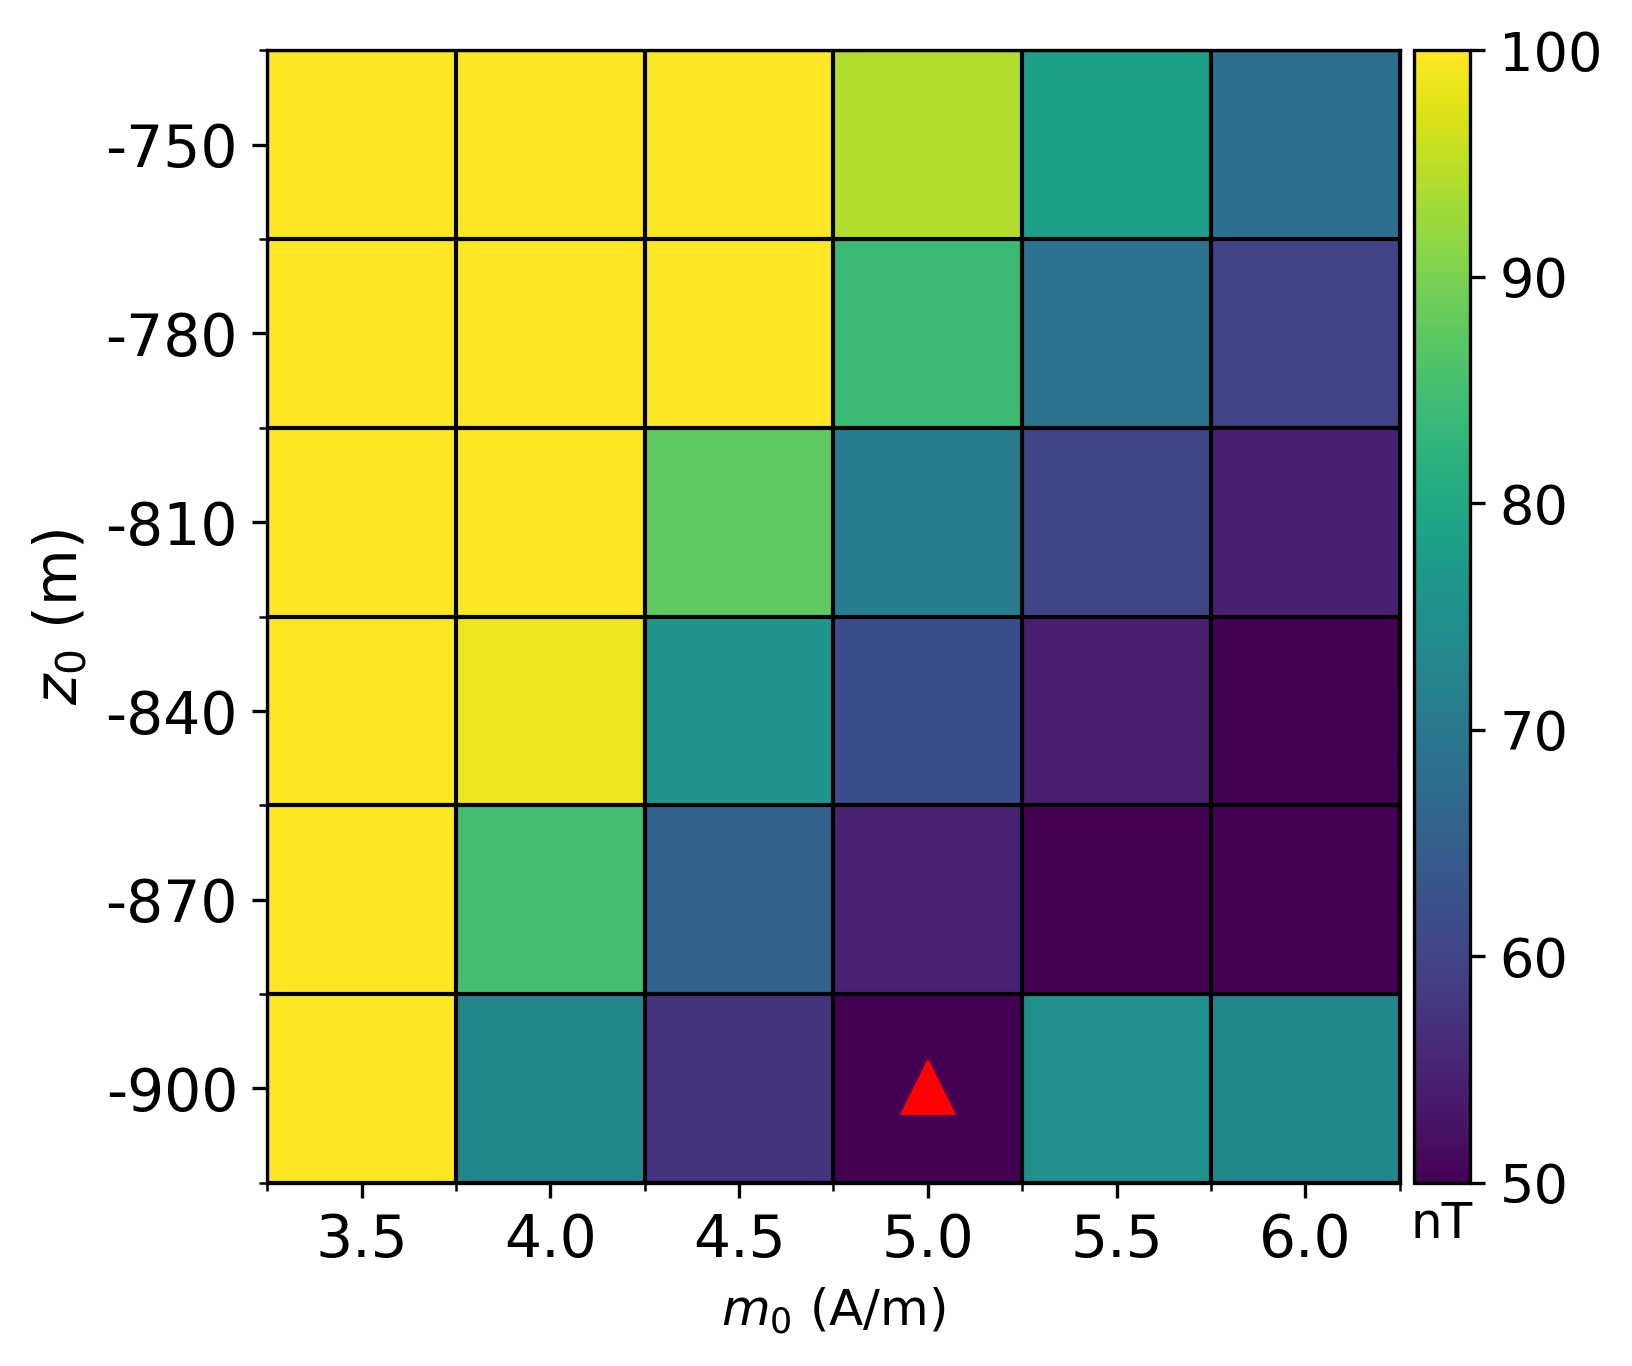
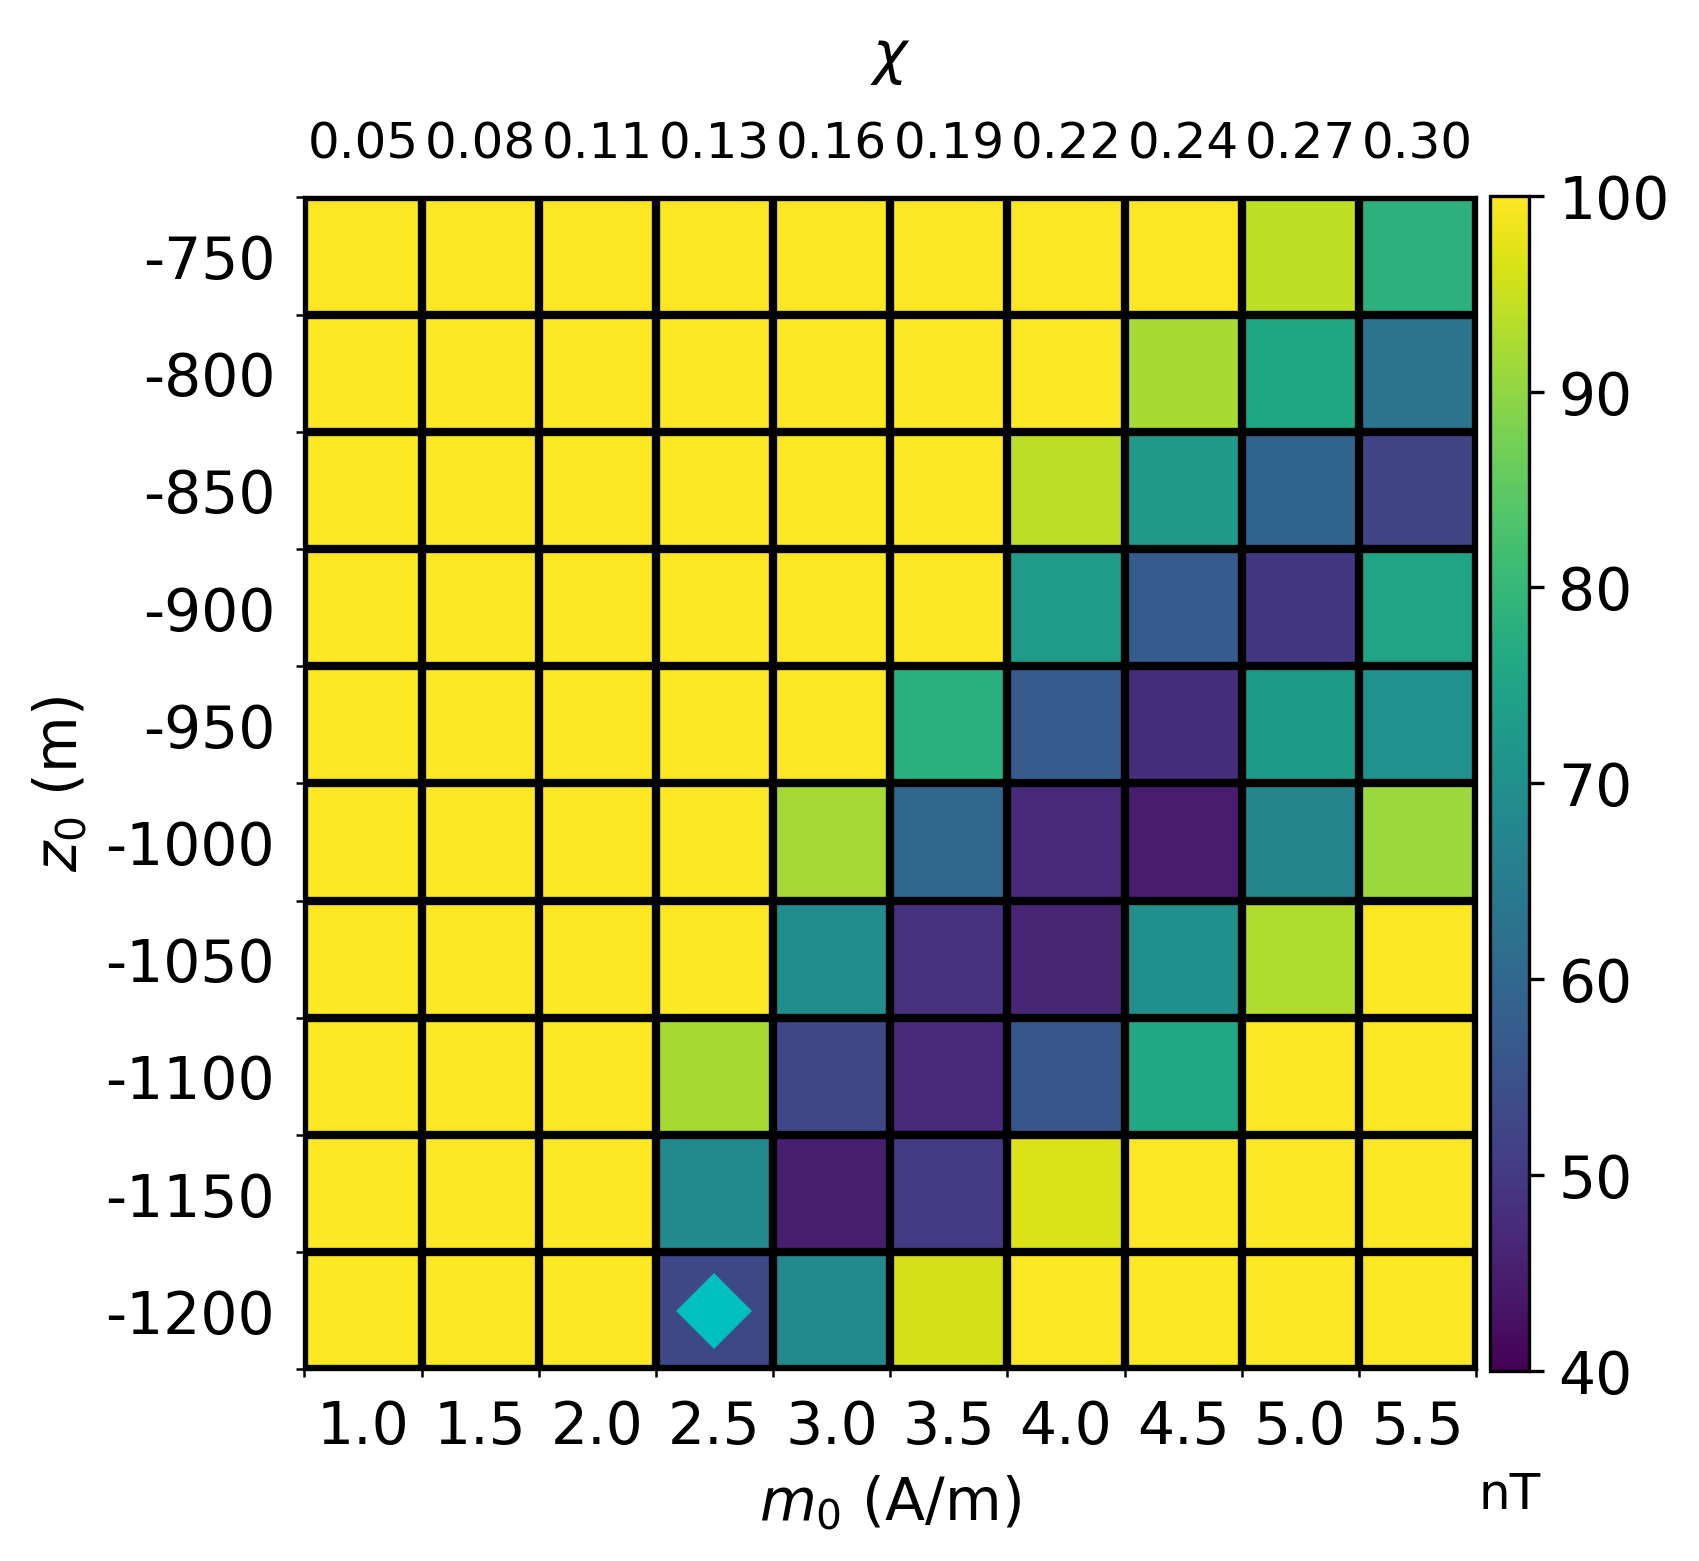
updating figures

diff --git a/manuscript/figures.tex b/manuscript/figures.tex
@@ -26,7 +26,7 @@
 \begin{figure}
     \centering
     \includegraphics[scale=.5]{figures/simple_model_data.png}
-    \caption{Simple model simulation. (a) noise-corrupted total-field anomaly produced by the simple model (blue prisms) in (b) with a pseudoramdom Gaussian distribution having mean $\mu_0 = 0$ nT and standar deviation $\sigma_0 = 5$ nT, the black dots represent the observation points. (b) perspective view of the simple model represented by the blue prisms.
+    \caption{Simple model simulation. (a) noise-corrupted total-field anomaly produced by the simple model (blue prisms) in (b) with a pseudoramdom Gaussian distribution having mean $\mu_0 = 0$ nT and standar deviation $\sigma_0 = 5$ nT, the black dots represent the observation points. The connected red dots are the vertices of the initial approximate horizontally projected at the data map. (b) perspective view of the simple model represented by the blue prisms.
 }
     \label{fig:simple_model}
 \end{figure}
@@ -52,7 +52,7 @@
 \begin{figure}
     \centering
     \includegraphics[scale=.5]{figures/complex_model_data.png}
-    \caption{Complex model simulation. (a) noise-corrupted total-field anomaly with a pseudoramdom Gaussian distribution having mean $\mu_0 = 0$ nT and standar deviation $\sigma_0 = 5$ nT produced by the complex model, the black dots represent the observation points. (b) elevation of the observations simulating an airborne survey. (c) and (d) perspective views of the complex model represented by the blue prisms.
+    \caption{Complex model simulation. (a) noise-corrupted total-field anomaly with a pseudoramdom Gaussian distribution having mean $\mu_0 = 0$ nT and standar deviation $\sigma_0 = 5$ nT produced by the complex model, the black dots represent the observation points. The connected red dots are the vertices of the initial approximate horizontally projected at the data map. (b) elevation of the observations simulating an airborne survey. (c) and (d) perspective views of the complex model represented by the blue prisms.
 }
     \label{fig:complex_model}
 \end{figure}
@@ -78,7 +78,7 @@
 \begin{figure}
     \centering
     \includegraphics[scale=.5]{figures/real_updata.png}
-    \caption{Total-field anomaly of the alkaline-carbonatitic complex of Anitapolis processed and calculated at $z=-2000$ m using upward continuation. The magnetic data are in nT and the coordinates are in UTM on the SAD-69 datum, with central meridian $ 51^\circ $ W.
+    \caption{(a) Total-field anomaly of the alkaline-carbonatitic complex of Anitapolis processed and calculated at $z=-2000$ m using upward continuation. The magnetic data are in nT and the coordinates are in UTM on the WGS84 datum, with central meridian $ 51^\circ $ W. (b) GPS elevation of the observation points in m. The black dots are the measures of the original data. The connected red dots in both maps are the vertices of the initial approximate horizontally projected at the data map.
 }
     \label{fig:real_data}
 \end{figure}
@@ -86,7 +86,7 @@
 \begin{figure}
 	\centering
 	\includegraphics[scale=.75]{figures/real_gamma.png}
-	\caption{Validation to estimate the depth to the top ($ z_0 $) and the total-magnetization intensity ($ m_0 $) for the field application. The ranges in the axes are $m_0 = 3.5$ A/m to $m_0=6$ A/m with $0.5$ A/m intervals and $z_0=-900$ m to $-750$ m with $30$ m intervals. Each square is the goal function $ \Gamma(\mathbf{p}) $ (eq. \ref{eq:gamma}) produced by an estimated model inverted using a pair of $m_0$ and $z_0$. These 36 inversions were computed using the same cylinder as a initial approximation. The red triangle represents the lowest value of $ \Gamma(\mathbf{p}) $ (eq. \ref{eq:gamma}).
+	\caption{Validation to estimate the depth to the top ($ z_0 $) and the total-magnetization intensity ($ m_0 $) for the field application. The ranges in the axes are $m_0 = 1$ A/m to $m_0=5.5$ A/m with $0.5$ A/m intervals and $z_0=-1200$ m to $-750$ m with $30$ m intervals. This range of $m_0$ corresponds to an interval of magnetic susceptibility $\chi$ from $0.05$ to $0.30$ (upper axis). Each square is the goal function $ \Gamma(\mathbf{p}) $ (eq. \ref{eq:gamma}) produced by an estimated model inverted using a pair of $m_0$ and $z_0$. These 100 inversions were computed using the same cylinder as a initial approximation. The cyan diamond represents the lowest value of $ \Gamma(\mathbf{p}) $ (eq. \ref{eq:gamma}).
 	}
 	\label{fig:real_map}
 \end{figure}
@@ -94,7 +94,7 @@
 \begin{figure}
     \centering
     \includegraphics[scale=.5]{figures/real_results.png}
-    \caption{Application to field data. (a) residual data given by the difference between the observed data (Fig. \ref{fig:real_data}a) and the predicted data (not shown). The inset in (a) shows the histogram of the residuals and the Gaussian curve (dashed line) whose mean and standard deviation are, respectively, $\mu = 0.83$ nT and $\sigma=6.44$ nT. (b) perspective view of the initial approximate (red prisms). (c) and (d) perspective views of the estimated model (red prisms). 
+    \caption{Application to field data. (a) residual data given by the difference between the observed data (Fig. \ref{fig:real_data}a) and the predicted data (not shown). The inset in (a) shows the histogram of the residuals and the Gaussian curve (dashed line) whose mean and standard deviation are, respectively, $\mu = 0.91$ nT and $\sigma=6.95$ nT. (b) perspective view of the initial approximate (red prisms). (c) and (d) perspective views of the estimated model (red prisms). 
 }
     \label{fig:real_result}
 \end{figure}
